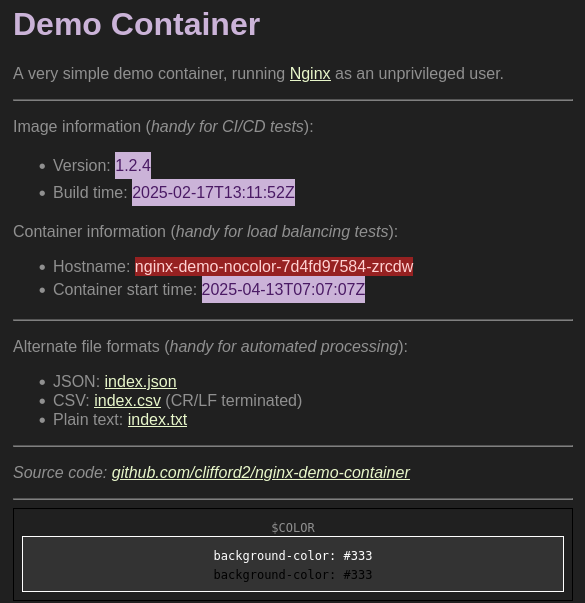
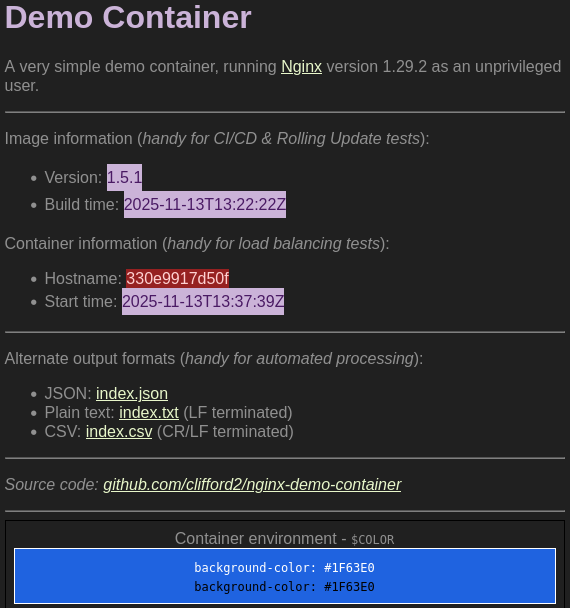
Minor doc cleanup

Changed region(s): [[0.0, 0.0896, 1.0, 1.0], [0.0, 0.0, 0.4474, 0.0597]]

diff --git a/README.md b/README.md
@@ -2,16 +2,17 @@
 
 ## About
 
-A very simple demo container image, running [Nginx](https://nginx.org/)
-as a non root, unprivileged user, on port 8080.
+This code builds a very simple demo container image, running
+[Nginx](https://nginx.org/) as a non root, unprivileged user,
+on port 8080.
 
-It returns simple files which contain:
+It returns simple content containing:
 
 - The image version/tag (handy for CI/CD tests & demos)
 - The image build time (handy for CI/CD tests & demos)
-- Container hostname & start time (handy for load balancing tests & demos)
+- Container hostname & start time (handy for load balancing & deployment rollout tests & demos)
 
-This output is available in the following files / formats:
+This output is available in the following formats:
 
 - HTML: `index.html` (handy for human consumption)
 - JSON: `index.json` (ideal for automated processing)
@@ -31,33 +32,33 @@ kubectl apply -f https://raw.githubusercontent.com/clifford2/nginx-demo-containe
 
 You can also run the image locally with commands like this:
 
-```sh
-podman run -d --rm \
- -p 8081:8080 \
- --name nginx-demo-nocolor \
- ghcr.io/clifford2/nginx-demo:1.5.1
-podman run -d --rm \
- -p 8082:8080 \
- --name nginx-demo-blue \
- -e COLOR=blue \
- ghcr.io/clifford2/nginx-demo:1.5.1
-podman run -d --rm \
- -p 8083:8080 \
- --name nginx-demo-green \
- -e COLOR=green \
- ghcr.io/clifford2/nginx-demo:1.5.1
-podman run -d --rm \
- -p 8084:8080 \
- --name nginx-demo-red \
- -e COLOR=red \
- ghcr.io/clifford2/nginx-demo:1.5.1
+```shell
+$ podman run -d --rm \
+   -p 8081:8080 \
+   --name nginx-demo-nocolor \
+   ghcr.io/clifford2/nginx-demo:1.5.1
+$ podman run -d --rm \
+   -p 8082:8080 \
+   --name nginx-demo-blue \
+   -e COLOR=blue \
+   ghcr.io/clifford2/nginx-demo:1.5.1
+$ podman run -d --rm \
+   -p 8083:8080 \
+   --name nginx-demo-green \
+   -e COLOR=green \
+   ghcr.io/clifford2/nginx-demo:1.5.1
+$ podman run -d --rm \
+   -p 8084:8080 \
+   --name nginx-demo-red \
+   -e COLOR=red \
+   ghcr.io/clifford2/nginx-demo:1.5.1
 
-xdg-open http://127.0.0.1:8081/index.html
-curl http://127.0.0.1:8082/index.json
-curl http://127.0.0.1:8083/index.txt
-curl http://127.0.0.1:8084/index.csv
+$ xdg-open http://127.0.0.1:8081/index.html
+$ curl http://127.0.0.1:8082/index.json
+$ curl http://127.0.0.1:8083/index.txt
+$ curl http://127.0.0.1:8084/index.csv
 
-podman stop nginx-demo-nocolor nginx-demo-red nginx-demo-blue nginx-demo-green
+$ podman stop nginx-demo-nocolor nginx-demo-red nginx-demo-blue nginx-demo-green
 ```
 
 ## License & Disclaimer
@@ -84,12 +85,35 @@ HTML:
 
 JSON:
 
-![JSON](images/sample-json.png "JSON")
+```json
+{
+  "nginx_version": "1.29.2",
+  "image_version": "1.5.1",
+  "build_time": "2025-11-13T13:22:22Z",
+  "container_hostname": "330e9917d50f",
+  "start_time": "2025-11-13T13:37:39Z",
+  "color": "#1F63E0"
+}
+```
 
 CSV:
 
-![CSV](images/sample-csv.png "CSV")
+```csv
+"nginx_version","1.29.2"
+"image_version","1.5.1"
+"build_time","2025-11-13T13:22:22Z"
+"container_hostname","330e9917d50f"
+"start_time","2025-11-13T13:37:39Z"
+"color","#1F63E0"
+```
 
 Plain text:
 
-![TXT](images/sample-txt.png "TXT")
+```text
+nginx_version:1.29.2
+image_version:1.5.1
+build_time:2025-11-13T13:22:22Z
+container_hostname:330e9917d50f
+start_time:2025-11-13T13:37:39Z
+color:#1F63E0
+```
